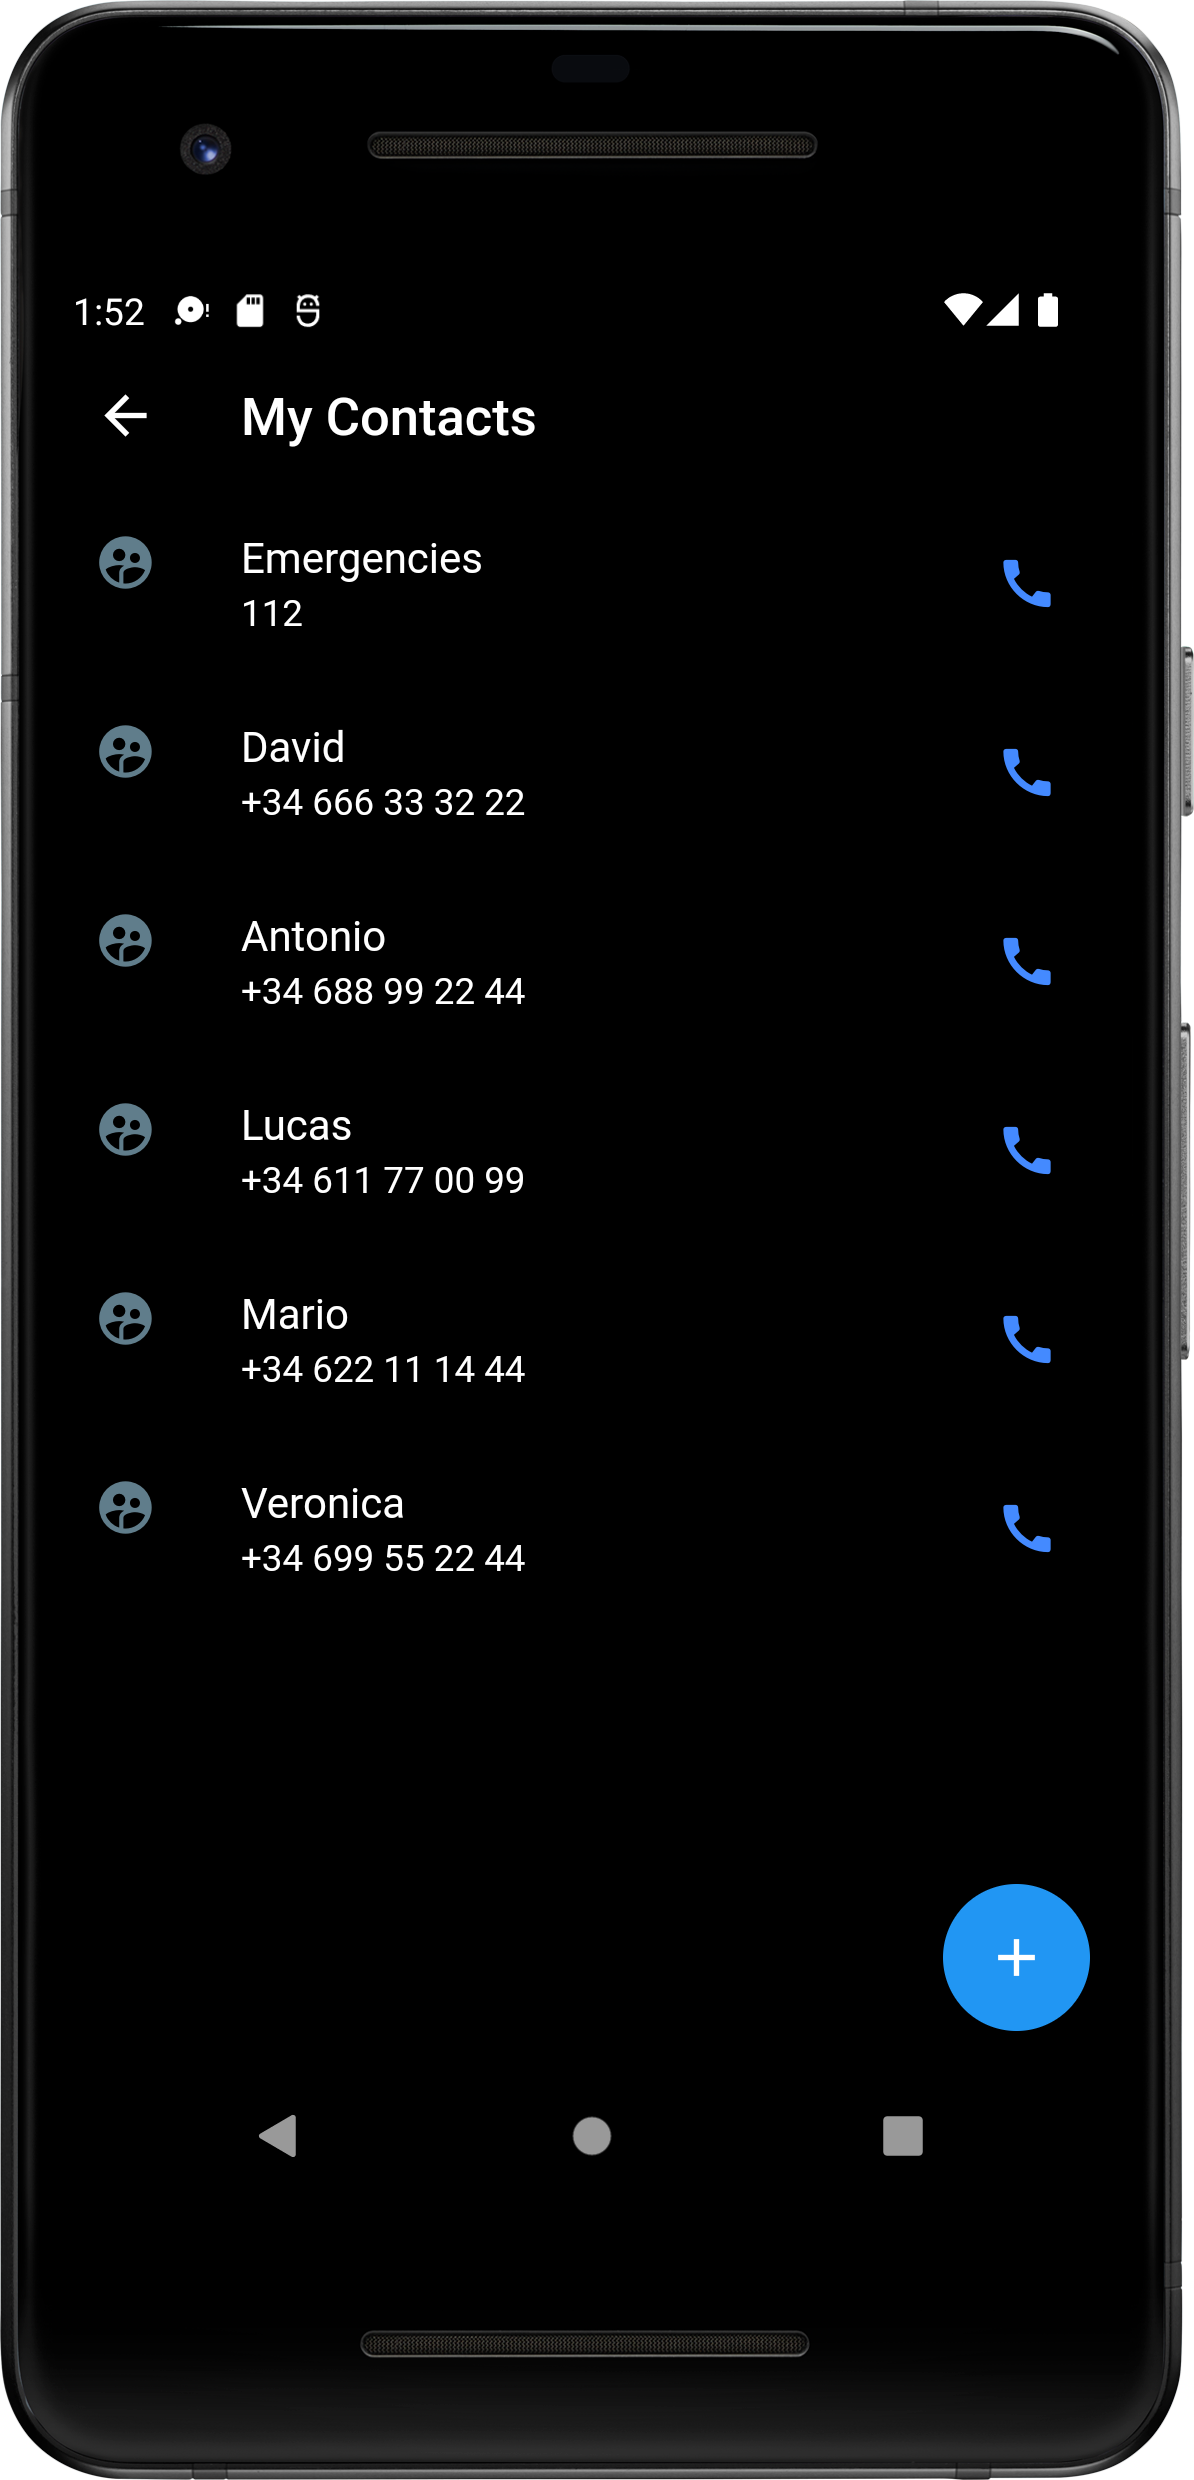
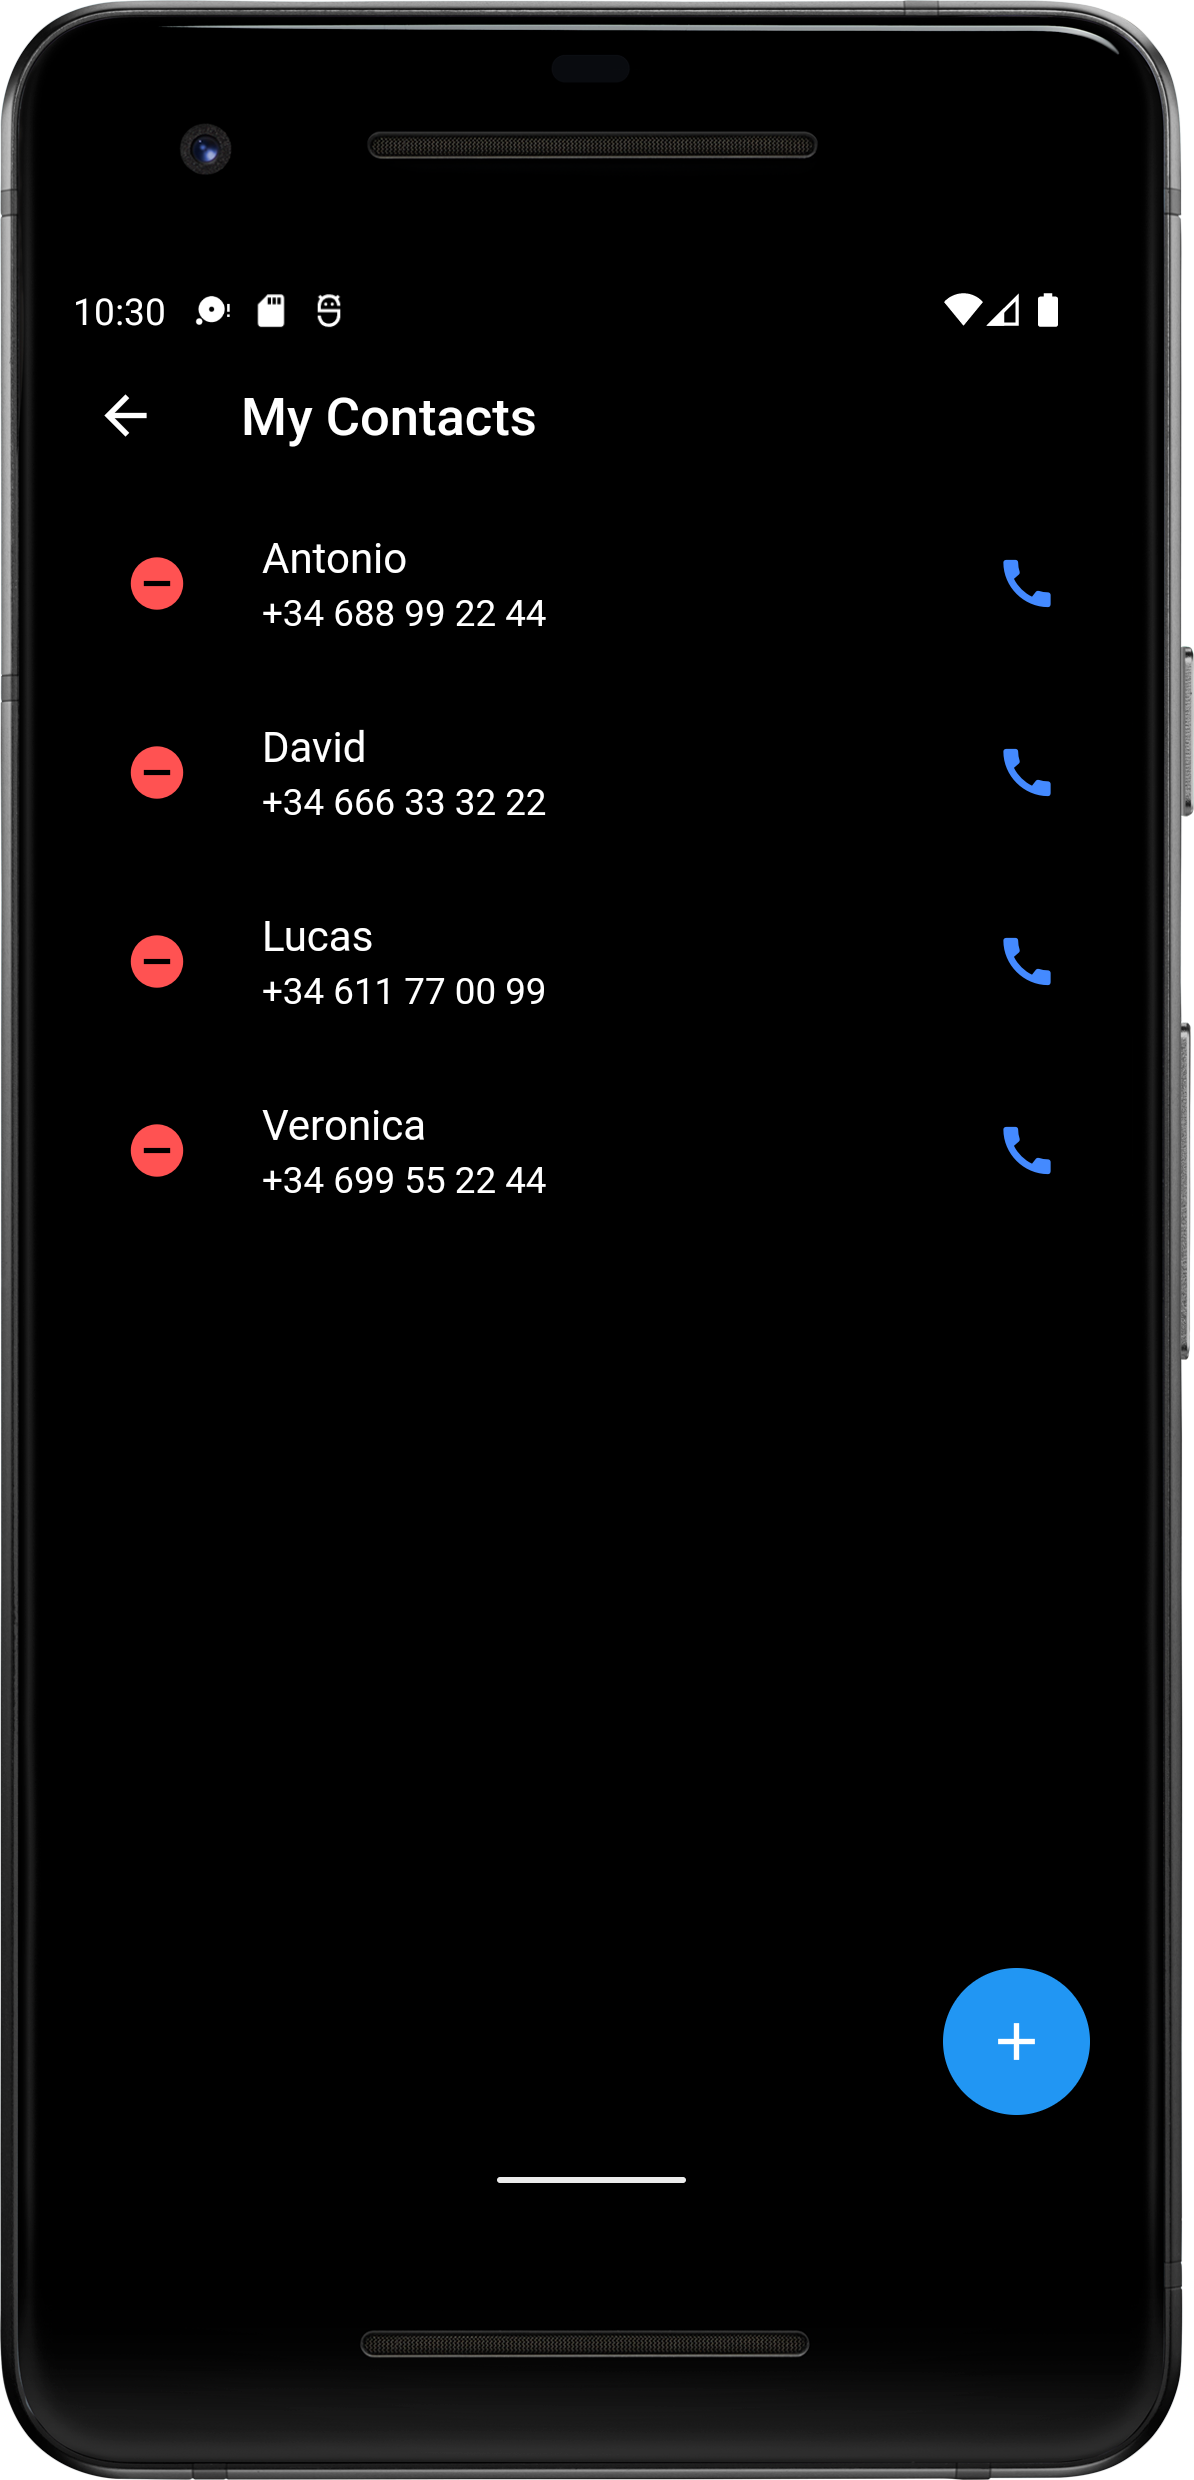
Add the ability to remove contacts in runtime

diff --git a/lib/Contacts.dart b/lib/Contacts.dart
@@ -81,13 +81,24 @@ class _ContactState extends State<Contacts>{
     setState(() {
       contactos = addContactsToList(mapa, contactos, telefonos);
       telefonos = addPhonesToList(mapa, contactos, telefonos);
-
     });
   }
 
   void llamar(List<String> telefonos, index) async{
     String number = "tel:${telefonos[index]}";
     await FlutterPhoneDirectCaller.callNumber(number);
+  }
+
+
+  removePhone(Map<dynamic,dynamic> mapa) {
+    setState(() async {
+      final filePath = await _localFile;
+      _jsonString = jsonEncode(mapa);
+      filePath.writeAsString(_jsonString);
+      contactos = [];
+      telefonos = [];
+      _readJson();
+    });
   }
 
   // Add contacts entries to lists
@@ -166,15 +177,24 @@ class _ContactState extends State<Contacts>{
           return ListTile(
             tileColor: Colors.black ,
             textColor: Colors.white,
-            leading: Icon(Icons.supervised_user_circle, color: Colors.blueGrey,),
+            leading: IconButton(
+              icon : const Icon(Icons.remove_circle, color: Colors.redAccent,),
+              onPressed: (){
+                mapa.remove(telefonos[index]);
+                setState(() {
+                  removePhone(mapa);
+                });
+              },
+
+            ),
             title: Text(contactos[index]),
             subtitle: Text(telefonos[index]),
             trailing: IconButton(
-              icon: const Icon(Icons.call, color: Colors.blueAccent,),
-              onPressed: (){
-                llamar(telefonos, index);
-              },
-            ),
+                  icon: const Icon(Icons.call, color: Colors.blueAccent,),
+                  onPressed: (){
+                    llamar(telefonos, index);
+                  },
+                ),
           );
         },
       ),
